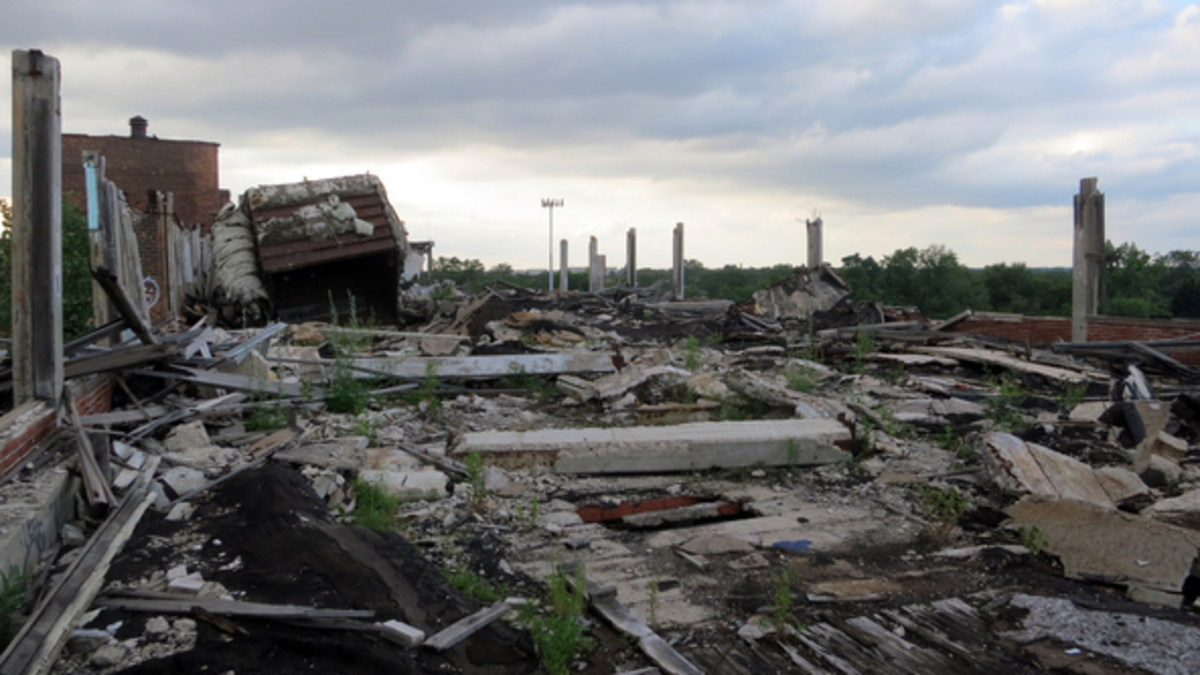
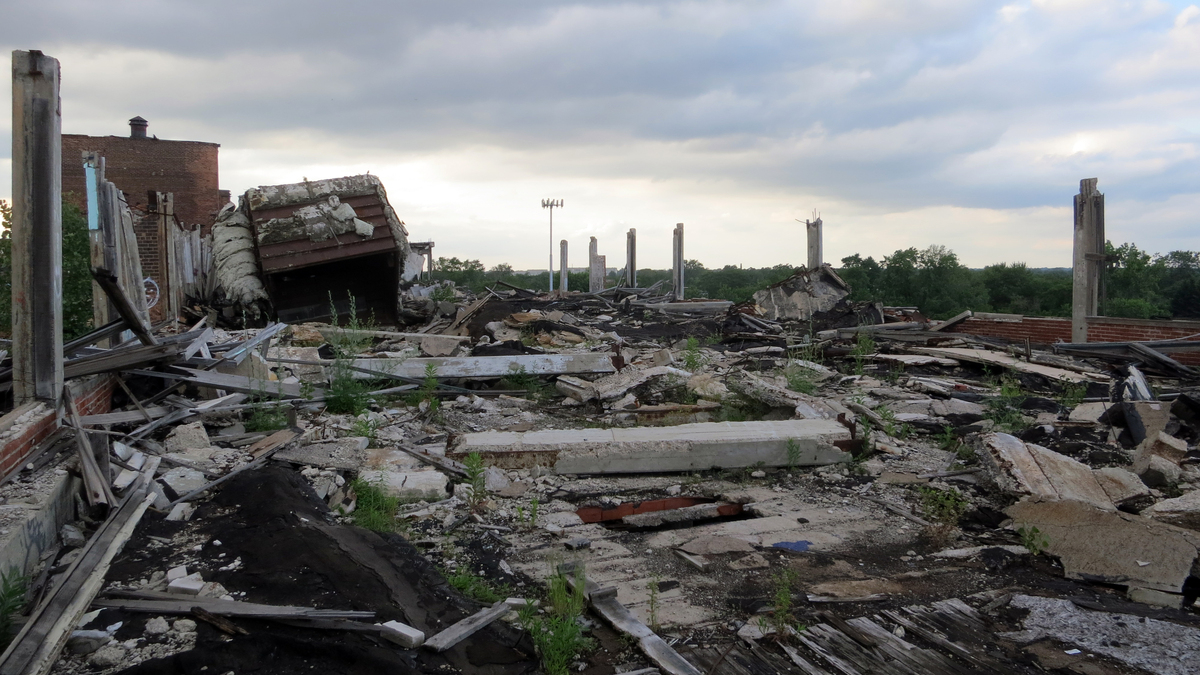
Hasty Commit: 2019-02-19 12:12:07

diff --git a/_posts/2019-01-21-thirty-books.md b/_posts/2019-01-21-thirty-books.md
@@ -5,7 +5,7 @@ description: "When it comes to clutter, most of us would part with our books whe
 categories: ['diary']
 tags: [bad advice]
 photo:
-  image: book-burning.jpg
+  image: the-house-of-leaves-burning-4.jpg
   creator: Public Domain
   url: https://commons.wikimedia.org/wiki/File:The_House_of_Leaves_-_Burning_4.jpg
   license: Public Domain (CC0)

diff --git a/content/posts/converted/2019-01-21-thirty-books.md b/content/posts/converted/2019-01-21-thirty-books.md
@@ -5,7 +5,7 @@ description: "When it comes to clutter, most of us would part with our books whe
 categories: ['diary']
 tags: [bad advice]
 photo:
-  image: book-burning.jpg
+  image: the-house-of-leaves-burning-4.jpg
   creator: Public Domain
   url: https://commons.wikimedia.org/wiki/File:The_House_of_Leaves_-_Burning_4.jpg
   license: Public Domain (CC0)
